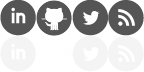
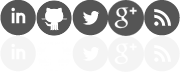
added google+ button, copy updates

Changed region(s): [[0.0, 0.0, 1.0, 0.5]]

diff --git a/about/index.html b/about/index.html
@@ -9,9 +9,9 @@ group: about
 
 <p>I hold a B.Sc in Computer Science and have been at a few companies so far in my career. If I had to point out one thing
 my positions had in common, it would be the huge amounts of knowledge I picked up working in them. Combined with what I manage
-to pick up in my spare time, I began to feel there needed to be a place to write them down.</p>
+to pick up in my spare time, I began to feel a need to write the information down.</p>
 
-<p>On this site you'll find tutorials, explanations and opinions on various technical topics I have experience with,
-as well as new ones as I learn them. There may be a few projects here and there as well. If this interests you, don't hesitate
-to check out my <a href="/">blog</a>. If not, <a href="/contact">let me know</a> what would and I'll see what if I can do
+<p>On this site you'll find tutorials, explanations and opinions on various technical topics I have experience with
+as well as new ones as I learn them. There may be a few projects here and there too. If this interests you, head over
+and check out my <a href="/">blog posts</a>. If not, <a href="/contact">let me know</a> what would and I'll see if I can do
 something about it for your next visit.</p>

diff --git a/contact/index.html b/contact/index.html
@@ -3,6 +3,13 @@ layout: default
 title: Contact
 group: contact
 ---
-<h1>If you have comments, questions or just want to chat ...</h1>
+<h1>If you have comments, questions or just feel like having a chat ...</h1>
 
-<p>... feel free to drop me an email at <strong>howard (at) howardlu (dot) com</strong>. I can also be found on <a href="http://www.linkedin.com/pub/howard-lu/50/541/288" target="_blank">LinkedIn</a>.</p>
+<p>... don't hesitate to drop me an email at <strong>howard (at) howardlu (dot) com</strong>. I can also be found on the following sites:</p>
+
+<ul>
+    <li><a href="http://www.linkedin.com/in/howardhlu" target="_blank">LinkedIn</a></li>
+    <li><a href="https://github.com/hhlu" target="_blank">GitHub</a></li>
+    <li><a href="https://twitter.com/HowardHLu" target="_blank">Twitter</a></li>
+    <li><a href="https://plus.google.com/u/0/104966188937783542432" target="_blank">Google+</a></li>
+</ul>

diff --git a/_layouts/default.html b/_layouts/default.html
@@ -68,9 +68,10 @@
     <footer class="main">
         <div class="container">
             <ul class="social-media-icons">
-                <li class="linkedin"><a href="http://ca.linkedin.com/pub/howard-lu/50/541/288/" target="_blank">LinkedIn</a></li>
+                <li class="linkedin"><a href="http://www.linkedin.com/in/howardhlu" target="_blank">LinkedIn</a></li>
                 <li class="github"><a href="https://github.com/hhlu" target="_blank">GitHub</a></li>
                 <li class="twitter"><a href="https://twitter.com/HowardHLu" target="_blank">Twitter</a></li>
+                <li class="gplus"><a href="https://plus.google.com/u/0/104966188937783542432" target="_blank">Google+</a></li>
                 <li class="rss"><a href="http://howardlu.com/atom.xml" target="_blank">RSS</a></li>
             </ul>
 

diff --git a/_includes/css/main.css b/_includes/css/main.css
@@ -277,11 +277,17 @@ footer.main ul.social-media-icons li.twitter a {
 footer.main ul.social-media-icons li.twitter a:hover {
     background-position: -72px -36px;
 }
-footer.main ul.social-media-icons li.rss a {
+footer.main ul.social-media-icons li.gplus a {
     background-position: -108px 0;
 }
-footer.main ul.social-media-icons li.rss a:hover {
+footer.main ul.social-media-icons li.gplus a:hover {
     background-position: -108px -36px;
+}
+footer.main ul.social-media-icons li.rss a {
+    background-position: -144px 0;
+}
+footer.main ul.social-media-icons li.rss a:hover {
+    background-position: -144px -36px;
 }
 
 article {
